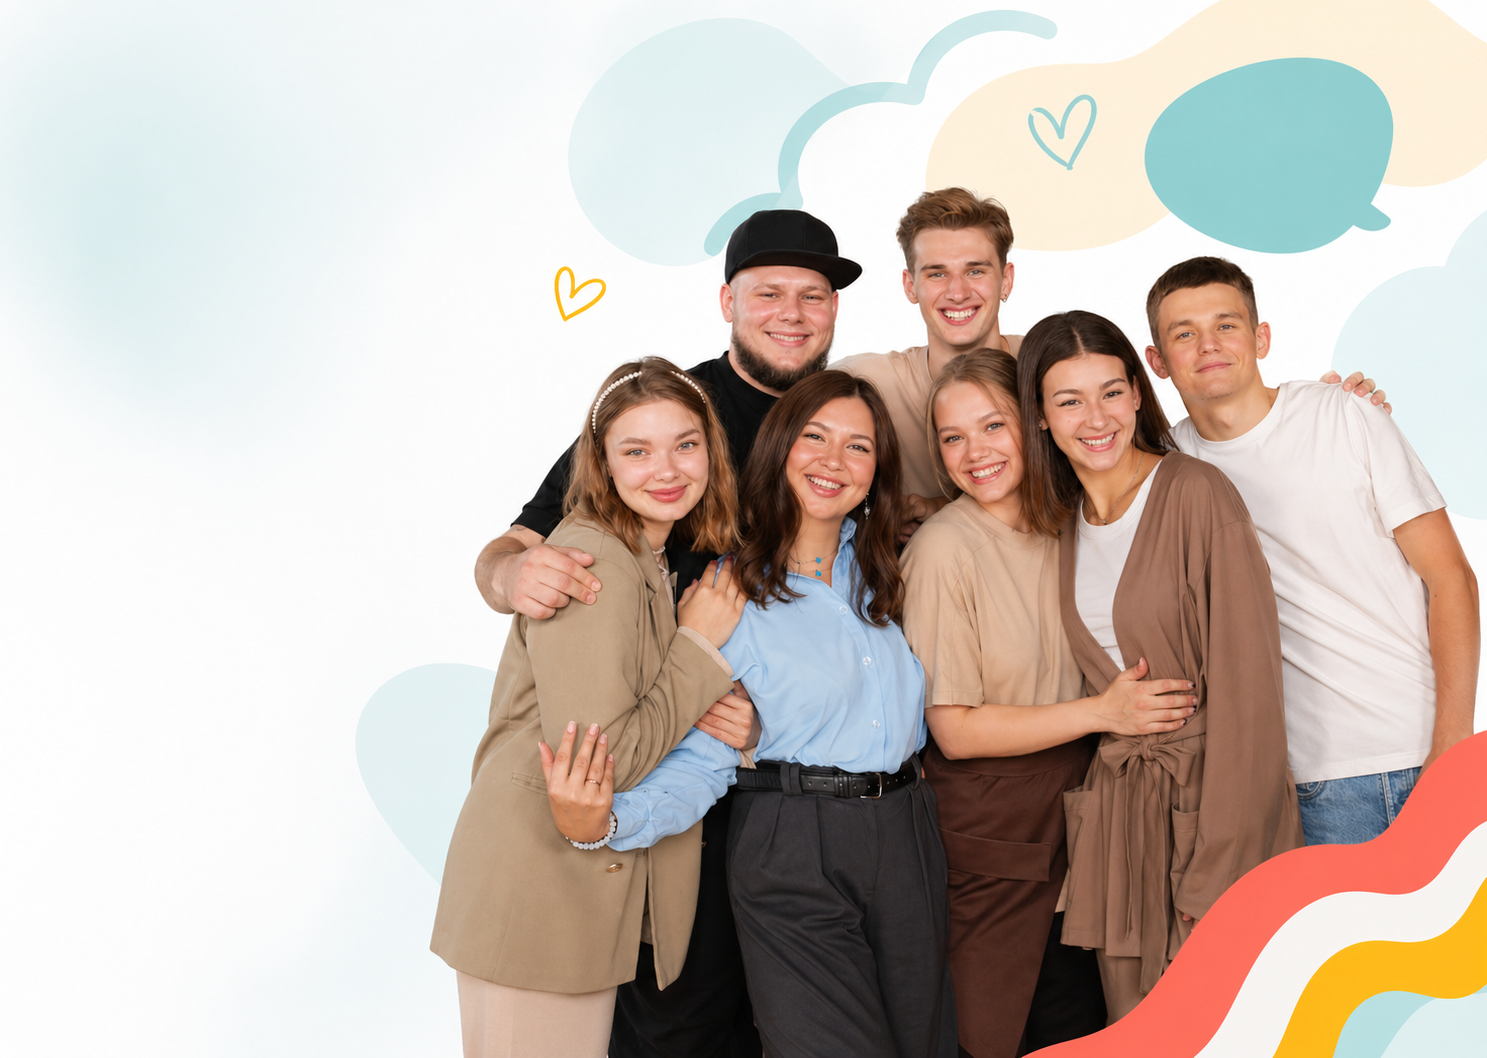
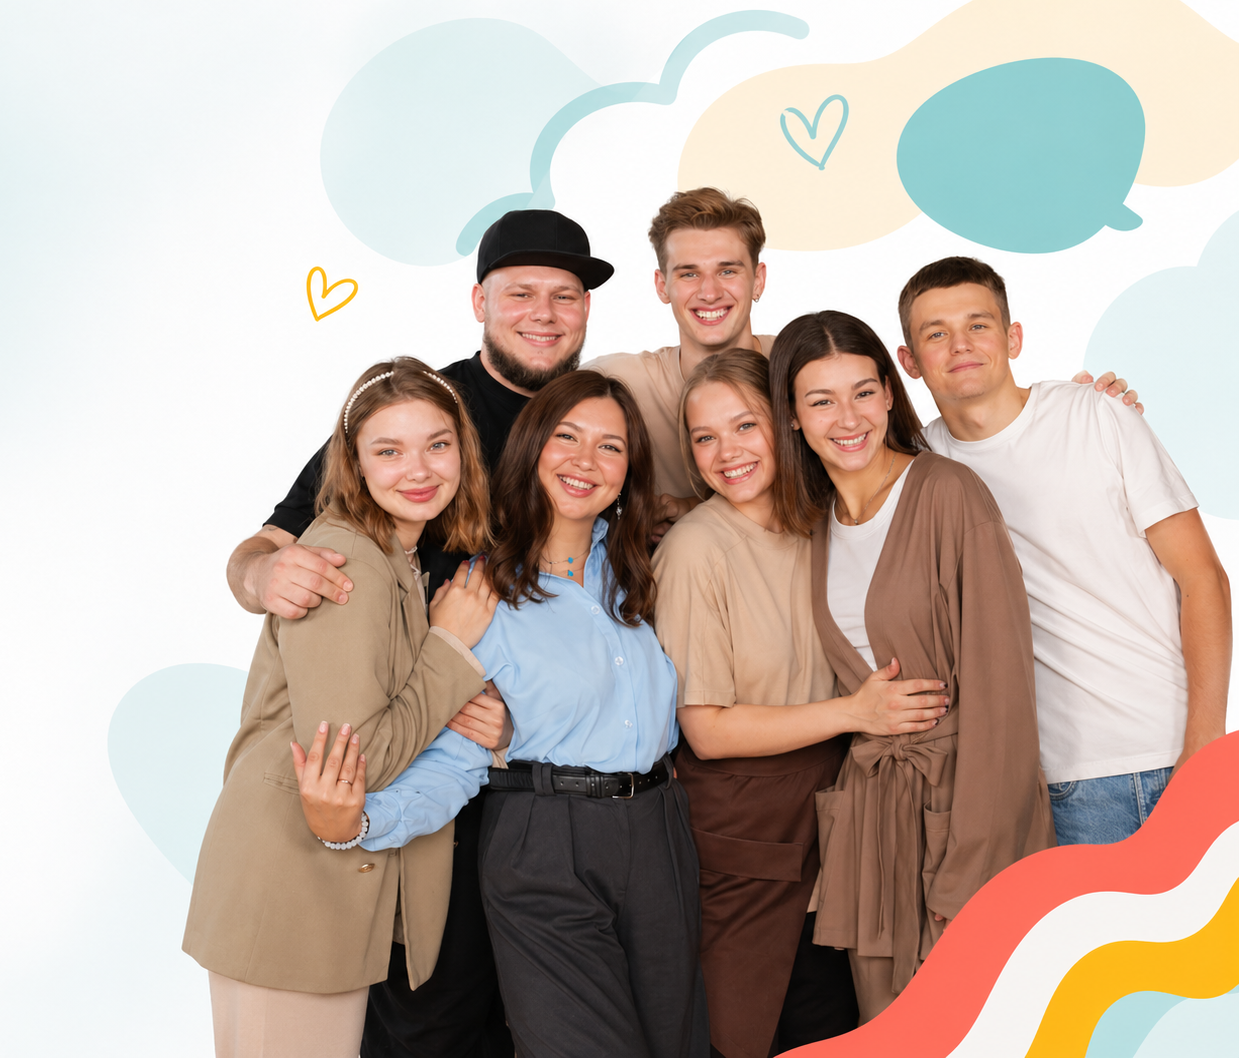
Правки

diff --git a/frontend/src/index.css b/frontend/src/index.css
@@ -486,7 +486,7 @@ textarea.input-premium {
 .auth-page {
   height: 100vh;
   display: grid;
-  grid-template-columns: 1fr min(calc(100vh * 1.405), calc(100vw - 400px));
+  grid-template-columns: 1fr min(calc(100vh * 1.171), calc(100vw - 400px));
   background: #fff;
   overflow: hidden;
 }
@@ -692,7 +692,7 @@ textarea.input-premium {
   width: 100%;
   height: 100%;
   object-fit: cover;
-  object-position: center top;
+  object-position: left top;
 }
 
 .auth-speech-bubble {
